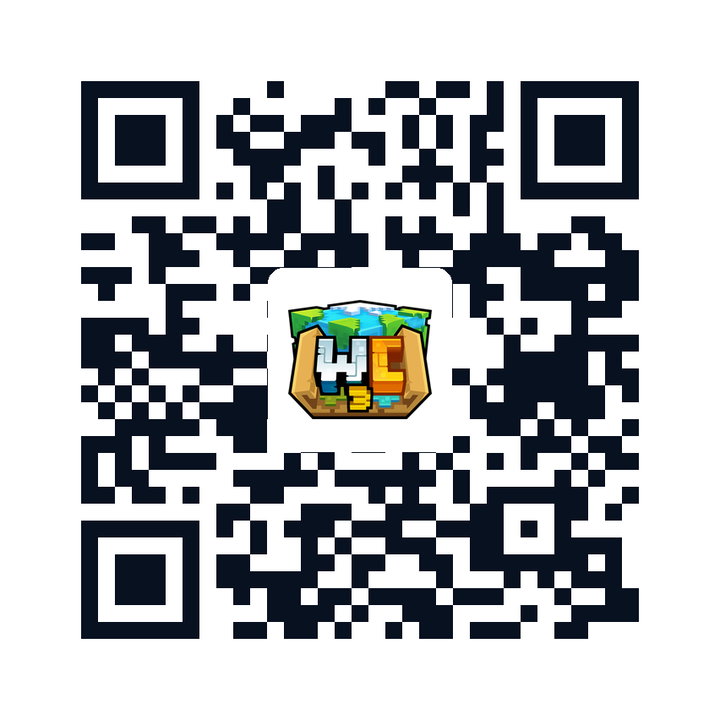
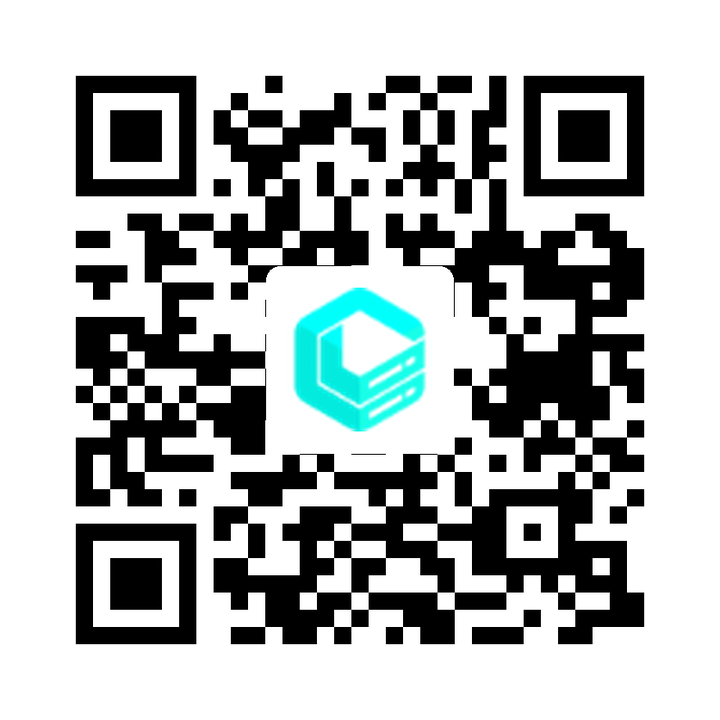
Route Twitch live status through the Worker, refresh sponsor QR
Twitch live badges had stopped working entirely. The page called decapi.me
directly, and decapi sends no Access-Control-Allow-Origin, so every request
was CORS-blocked in the browser. It failed silently — a blocked request is
indistinguishable from "not live" to the caller — so no Twitch badge lit up
for any visitor while the page retried thirteen times a minute, forever.

- The Worker's /live endpoint gains a twitch platform alongside youtube and
  tiktok. Server-side there is no CORS. Unlike the other two the upstream
  returns plain text, so the recipe parses that instead of HTML.
- createTwitchProvider() reuses the same batched-provider engine, collapsing
  one request per creator per cycle into one for the whole roster.
- All three platforms now default to a noop provider. Twitch defaulted to
  decapiProvider, which cannot work from a page; modules/creators.js supplies
  the real one. decapiProvider stays exported — it is still exercised by tests
  with an injected fetch — with its browser limitation documented.

Verified both branches against the deployed Worker, not just the offline one:
a genuinely live channel returns true and a nonexistent one returns false in
the same batched request.

Sponsor page:
- New QR artwork, built with CraftLands' own brand mark. Decodes down to
  150px, well under the 180px floor the CSS enforces.
- Promo code is WANDER per the partner. Noted for the record that
[…]

diff --git a/js/modules/liveStatus.js b/js/modules/liveStatus.js
@@ -5,7 +5,9 @@
  * isLive flags) but does the polling client-side where possible and leaves
  * a clean provider seam for platforms that need a backend.
  *
- *   Twitch   → decapi.me public proxy, no auth required, works in browser
+ *   Twitch   → decapi.me, proxied by our Worker (/live?platform=twitch).
+ *              decapi sends no CORS header, so it cannot be called from the
+ *              page. Wire it with createTwitchProvider(). Default: false.
  *   YouTube  → no public no-auth proxy and no CORS, so the check runs in
  *              our own Worker (/live). Wire it with createYouTubeProvider()
  *              once LIVE_WORKER_BASE_URL is set. Default: returns false.
@@ -27,9 +29,9 @@
  *     tiktok:  async (handle) => boolean,
  *   }
  *
- * The default `start()` uses the built-in Twitch (decapi) provider and
- * noop providers for the other two. To enable YouTube live detection,
- * pass `{ providers: { youtube: yourYouTubeFn } }`.
+ * The default `start()` uses noop providers for all three — every platform
+ * needs the Worker. Pass `{ providers: { twitch: createTwitchProvider(...) } }`
+ * and friends to enable them; modules/creators.js does this.
  */
 
 const PLATFORMS = ['twitch', 'youtube', 'tiktok'];
@@ -62,7 +64,13 @@ let timerId = null;
    ============================================================ */
 
 /**
- * Twitch live check via decapi.me. Returns true if the channel is live.
+ * Twitch live check straight against decapi.me.
+ *
+ * NOT usable from a browser: decapi serves no Access-Control-Allow-Origin, so
+ * calls from the site are CORS-blocked and always resolve false. Kept because
+ * the parser below is shared logic and this is exercised by tests with an
+ * injected fetch. Production goes through createTwitchProvider().
+ *
  * Any network error / non-OK / unrecognized body → false (never a lie).
  */
 export async function decapiProvider(twitchUsername, fetchImpl = fetch) {
@@ -95,6 +103,9 @@ export function parseDecapiUptime(text) {
 
 /** Default placeholder for YouTube — always returns false until a real provider is wired. */
 export const youtubeNoopProvider = async () => false;
+
+/** Default placeholder for Twitch — see createTwitchProvider for the real one. */
+export const twitchNoopProvider = async () => false;
 
 /**
  * How long one /live snapshot is reused. This exists to coalesce the burst
@@ -149,6 +160,21 @@ export function createYouTubeProvider(opts = {}) {
  */
 export function createTikTokProvider(opts = {}) {
   return createBatchedProvider({ ...opts, platform: 'tiktok' });
+}
+
+/**
+ * Build a Twitch provider backed by the same Worker /live endpoint.
+ *
+ * Twitch used to be the one platform checked straight from the browser, via
+ * decapi.me. That stopped working: decapi sends no Access-Control-Allow-Origin,
+ * so every request was CORS-blocked and no Twitch badge ever lit up — silently,
+ * because a blocked request looks the same as "not live" to the caller.
+ *
+ * Routing it through the Worker fixes that (no CORS server-side) and batches
+ * the whole roster into one request per poll instead of one per creator.
+ */
+export function createTwitchProvider(opts = {}) {
+  return createBatchedProvider({ ...opts, platform: 'twitch' });
 }
 
 /**
@@ -225,7 +251,11 @@ export function start(creators, opts = {}) {
 
   const intervalMs = opts.intervalMs ?? DEFAULT_POLL_MS;
   const providers = {
-    twitch:  decapiProvider,
+    // All three default to noop. Twitch used to default to decapiProvider,
+    // but decapi blocks browser origins, so that default produced a stream of
+    // failed requests and badges that never lit. modules/creators.js supplies
+    // the Worker-backed provider instead.
+    twitch:  twitchNoopProvider,
     youtube: youtubeNoopProvider,
     tiktok:  tiktokNoopProvider,
     ...opts.providers,

diff --git a/workers/youtube-feed/worker.js b/workers/youtube-feed/worker.js
@@ -295,7 +295,39 @@ const LIVE_PLATFORMS = {
       + '(KHTML, like Gecko) Chrome/124.0.0.0 Safari/537.36',
     parse: (html) => parseTikTokLiveHtml(html),
   },
+  // Twitch runs through decapi.me, which needs no auth but sends no
+  // Access-Control-Allow-Origin — so the browser cannot call it directly.
+  // The frontend used to try anyway and every request was CORS-blocked,
+  // which meant Twitch badges never lit up for anyone. Server-side there is
+  // no CORS, so proxying it here fixes the badges and collapses one request
+  // per creator per minute into one batched request for the whole roster.
+  // Unlike the other two this returns plain text, not HTML.
+  twitch: {
+    url: (handle) => `https://decapi.me/twitch/uptime/${encodeURIComponent(handle)}`,
+    ua: 'Mozilla/5.0 (compatible; WanderCraftBot/1.0; +https://playwandercraft.com)',
+    parse: (text) => parseDecapiUptime(text),
+  },
 };
+
+/**
+ * Pure detector for decapi's uptime response. Exported for tests.
+ *   "2 hours, 15 minutes"     → true   (a live channel reports its uptime)
+ *   "somebody is offline"     → false
+ *   "User not found"          → false
+ *   ""                        → false
+ *
+ * Mirrors parseDecapiUptime in js/modules/liveStatus.js; kept in both places
+ * because the Worker cannot import from the site's modules.
+ */
+export function parseDecapiUptime(text) {
+  if (typeof text !== 'string') return false;
+  const lower = text.toLowerCase();
+  if (lower.includes('offline')) return false;
+  if (lower.includes('not found')) return false;
+  if (lower.includes('error')) return false;
+  if (lower.includes('unknown user')) return false;
+  return /^\d/.test(text.trim());   // live uptime strings start with a digit
+}
 
 async function handleLive(url) {
   const platform = (url.searchParams.get('platform') || 'youtube').toLowerCase();

diff --git a/sponsors.html b/sponsors.html
@@ -4,7 +4,7 @@
   <meta charset="UTF-8">
   <meta name="viewport" content="width=device-width, initial-scale=1.0">
   <title>Sponsor WanderCraft — Partner With the SMP</title>
-  <meta name="description" content="Craftlands is the official server-hosting partner of WanderCraft SMP — 30% off your first invoice with code wcs. Two sponsorship slots are still open for Season 3.">
+  <meta name="description" content="Craftlands is the official server-hosting partner of WanderCraft SMP — 30% off your first invoice with code WANDER. Two sponsorship slots are still open for Season 3.">
   <meta name="theme-color" content="#081120">
 
   <link rel="canonical" href="https://playwandercraft.com/sponsors.html">
@@ -204,7 +204,7 @@
           <p class="spotlight-offer">
             <b>30% off your first invoice</b>
             <span>applied automatically through the link, or enter</span>
-            <code>wcs</code>
+            <code>WANDER</code>
           </p>
 
           <p>Adventure is everywhere. Where will yours take you?</p>

diff --git a/js/modules/creators.js b/js/modules/creators.js
@@ -53,6 +53,20 @@ export function buildProviders() {
 
   // One batched Worker request per platform per poll cycle covers every
   // creator, so each provider needs the full handle list up front.
+  //
+  // Twitch goes through the Worker like the others. It used to call decapi.me
+  // straight from the page, but decapi sends no Access-Control-Allow-Origin,
+  // so every one of those requests was CORS-blocked — silently, because a
+  // blocked request is indistinguishable from "not live". No Twitch badge had
+  // lit up for any visitor, while the page retried 13 times a minute forever.
+  const twitchHandles = CREATORS.map((c) => c.twitchUsername).filter(Boolean);
+  if (twitchHandles.length > 0) {
+    providers.twitch = liveStatus.createTwitchProvider({
+      baseUrl: LIVE_WORKER_BASE_URL,
+      handles: twitchHandles,
+    });
+  }
+
   const youtubeHandles = CREATORS.map((c) => c.youtubeHandle).filter(Boolean);
   if (youtubeHandles.length > 0) {
     providers.youtube = liveStatus.createYouTubeProvider({

diff --git a/js/data/liveConfig.js b/js/data/liveConfig.js
@@ -13,8 +13,8 @@
 /**
  * Base URL of the deployed Cloudflare Worker that backs live status.
  *
- * Shared by YouTube AND TikTok — both run through the same Worker, which
- * takes a ?platform= param.
+ * Shared by Twitch, YouTube AND TikTok — all three run through the same
+ * Worker, which takes a ?platform= param.
  *
  * Neither platform has a CORS-friendly no-auth endpoint the browser can
  * hit directly, so the /live check runs in workers/youtube-feed/worker.js.
@@ -25,8 +25,8 @@
  *
  * Set this back to '' to switch ALL live badges off: modules/creators.js
  * then skips every provider and the pills simply never light up, with the
- * rest of the dashboard unaffected. Twitch does NOT depend on this; it
- * polls decapi.me straight from the browser.
+ * rest of the dashboard unaffected. Twitch depends on this too now: decapi.me
+ * sends no CORS header, so it can only be reached server-side.
  */
 export const LIVE_WORKER_BASE_URL = 'https://wandercraft-youtube-feed.derekpunaroo.workers.dev';
 
